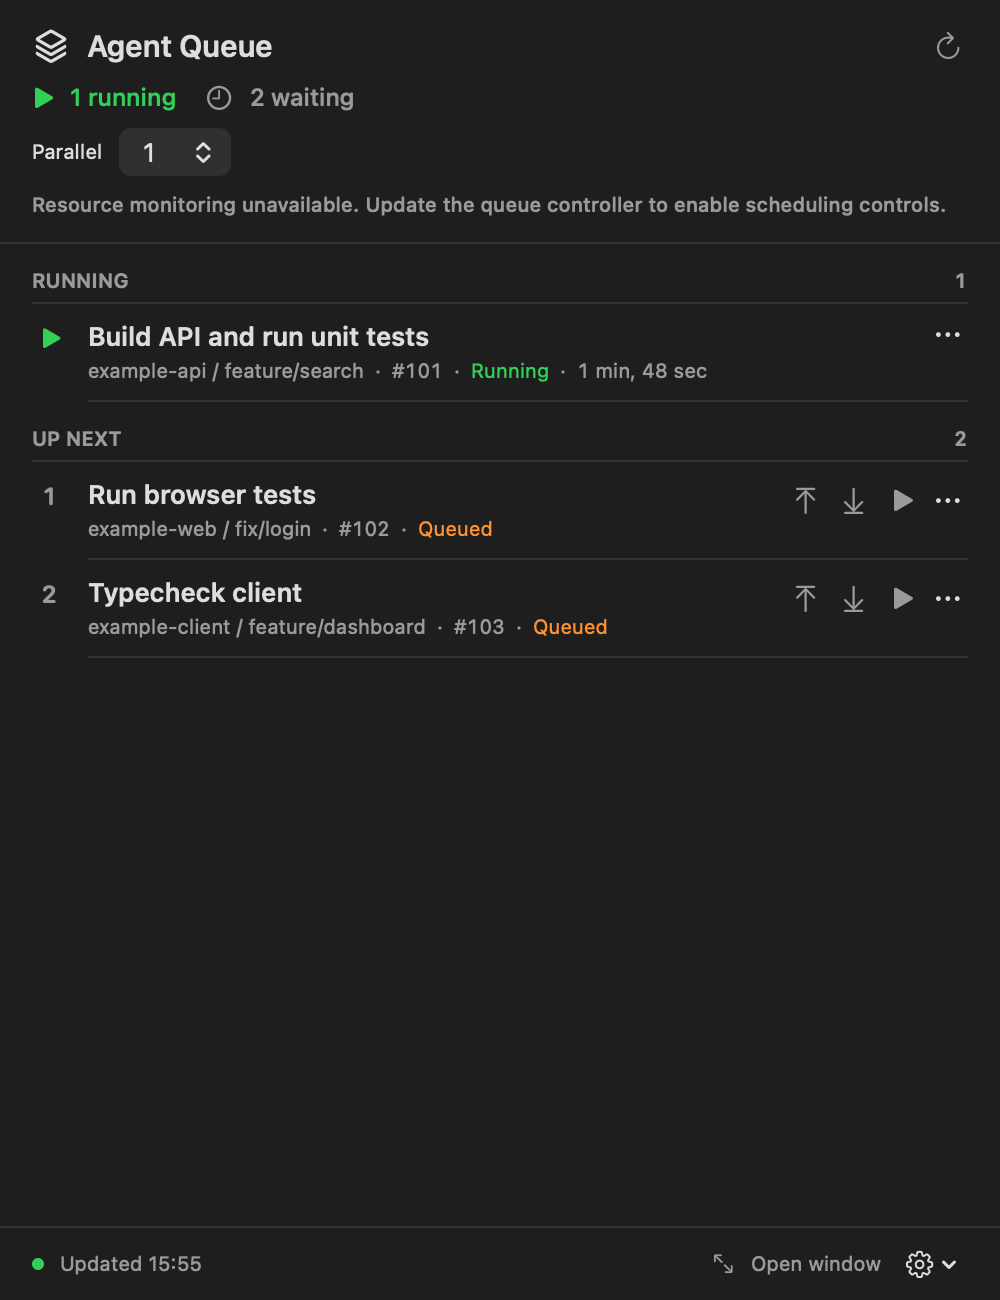
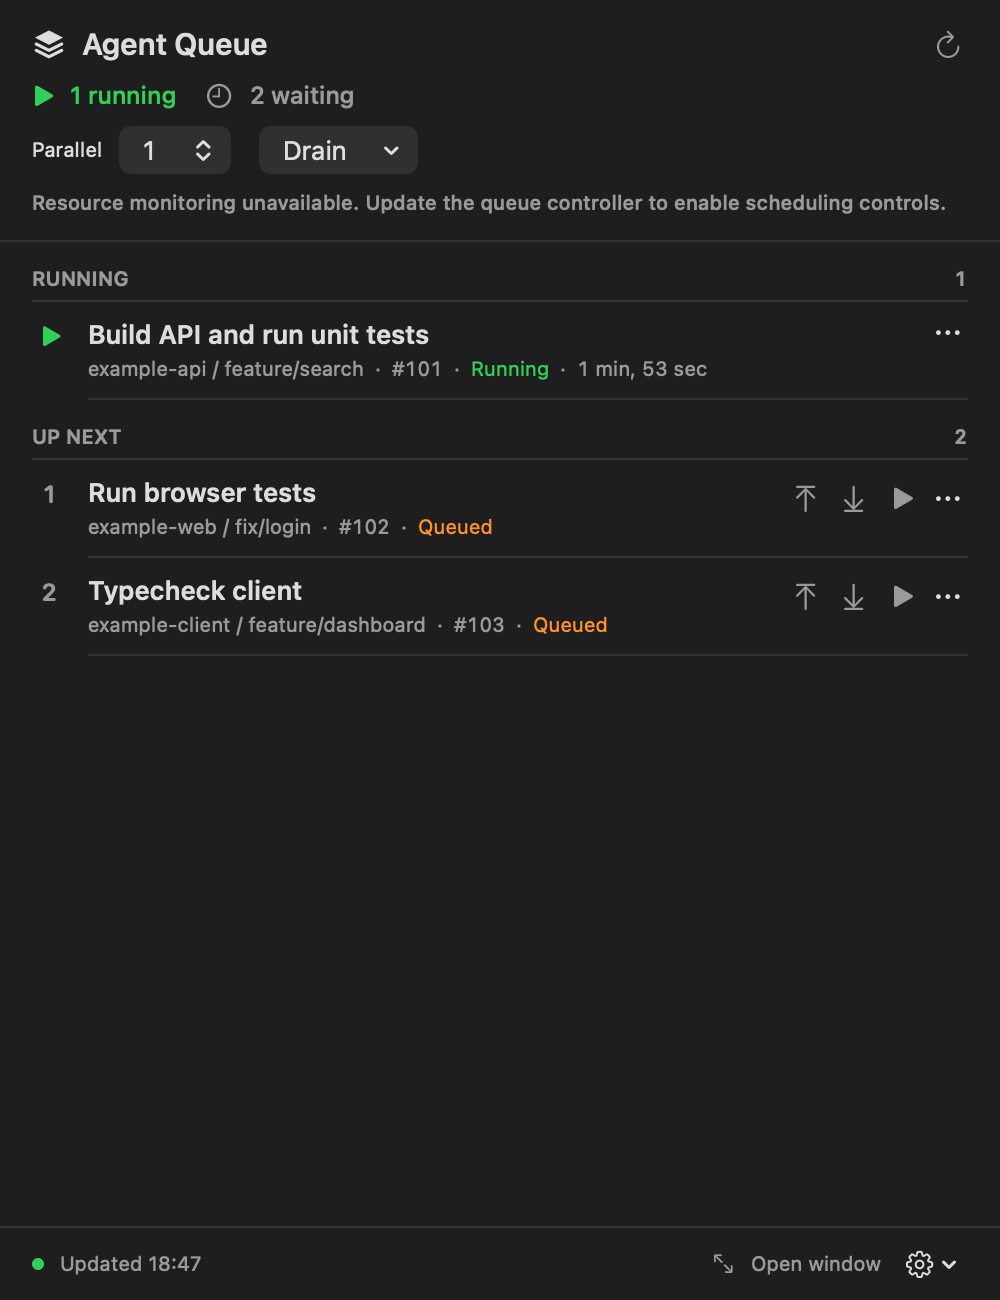
feat(native): drain the queue from the app for a chosen time (#109)
* feat(native): drain the queue from the app for a chosen time

A Drain menu beside the parallel limit closes intake for 30 minutes to
4 hours. The daemon's own expiry reopens intake, so it ends on time even
when the app is not running. A banner shows when intake reopens and
offers Stop draining, which leaves a paused queue paused, or Remove drain
when the drain file cannot be trusted.

The update drain reuses the shared date parser instead of its own copy.

* fix(native): say what a drain does for every caller choice

"New jobs wait" holds only for the default on-drain choice, and queued
jobs do not continue while the queue is paused. The banner and notice
now say new jobs are not accepted and queued and running jobs are
unaffected. Removing an untrusted drain file says "Drain removed", the
Drain menu says when a choice restarts an active drain, the banner date
reads as an if/else chain, and an unreadable end time is shown as
reported.

---------

diff --git a/native/AgentQueue.swift b/native/AgentQueue.swift
@@ -520,6 +520,7 @@ extension QueueClient.Command {
     static let status = Self(arguments: ["status", "--json"], timeout: 8, cancellation: .discard)
     static func jobAction(_ action: String, id: Int) -> Self { .init(arguments: [action, String(id)]) }
     static let resume = Self(arguments: ["resume"])
+    static func drain(minutes: Int) -> Self { .init(arguments: ["drain", "--for", "\(minutes)m"]) }
     static func limit(_ limit: Int) -> Self { .init(arguments: ["limit", String(limit)]) }
     static func scheduling(_ mode: SchedulingMode) -> Self { .init(arguments: ["scheduling", mode.rawValue]) }
     static let version = Self(arguments: ["version", "--json"])
@@ -1452,6 +1453,18 @@ struct QueuePanel: View {
                     .fixedSize()
                     .help("Adaptive fits jobs within your parallel limit. Learn only records predictions. Running jobs are never stopped automatically.")
                 }
+                Menu("Drain") {
+                    // Durations count from now, so a new choice replaces the current end time.
+                    Section(store.snapshot?.queue.drainUntil == nil ? "Close intake for" : "Restart the drain for") {
+                        ForEach(QueueAction.drainMinutes, id: \.self) { minutes in
+                            Button(QueueAction.drainLabel(minutes)) { store.dispatch(.drain(minutes: minutes)) }
+                        }
+                    }
+                }
+                .fixedSize()
+                .help("Hold new jobs back for a while, for example before an update or a restart. Queued and running jobs continue, and intake reopens on its own when the time is up.")
+                .accessibilityLabel("Drain queue")
+                .accessibilityIdentifier("queue.drain")
                 Spacer(minLength: 0)
             }
             .pickerStyle(.menu).font(.caption)
@@ -1517,6 +1530,22 @@ struct QueuePanel: View {
                         .accessibilityLabel("Resume queue")
                         .accessibilityIdentifier("queue.resume")
                         .help("Resume automatic starts for waiting jobs.")
+                    }.font(.callout).padding(.top, 10)
+                }
+                if let queue = store.snapshot?.queue, queue.drainUntil != nil || queue.drainError != nil {
+                    HStack(spacing: 12) {
+                        Label(drainBanner(queue), systemImage: queue.drainError == nil ? "hourglass" : "exclamationmark.triangle")
+                            .foregroundStyle(.orange)
+                        Spacer(minLength: 0)
+                        Button(queue.drainError == nil ? "Stop draining" : "Remove drain", systemImage: "xmark.circle") {
+                            store.dispatch(.undrain)
+                        }
+                        .buttonStyle(.bordered)
+                        .fixedSize()
+                        .disabled(store.actionsDisabled)
+                        .accessibilityLabel(queue.drainError == nil ? "Stop draining" : "Remove drain file")
+                        .accessibilityIdentifier("queue.undrain")
+                        .help("Accept new jobs again now. A paused queue stays paused.")
                     }.font(.callout).padding(.top, 10)
                 }
                 if store.snapshot?.queue.legacyOccupied == true {
@@ -1854,6 +1883,23 @@ struct JobConfirmationPanel: View {
             }.padding(18)
         }.frame(maxWidth: .infinity, maxHeight: .infinity)
     }
+}
+
+/// The drain banner text: when intake reopens, or why the drain cannot be trusted.
+func drainBanner(_ queue: QueueSummary, now: Date = Date()) -> String {
+    if let problem = queue.drainError { return problem }
+    guard let text = queue.drainUntil, let until = parseDate(text) else { return "Draining until \(queue.drainUntil ?? "an unknown time"). \(QueueAction.drainEffect)" }
+    let calendar = Calendar.current
+    let time = until.formatted(date: .omitted, time: .shortened)
+    let end: String
+    if calendar.isDate(until, inSameDayAs: now) {
+        end = time
+    } else if let tomorrow = calendar.date(byAdding: .day, value: 1, to: now), calendar.isDate(until, inSameDayAs: tomorrow) {
+        end = "tomorrow \(time)"
+    } else {
+        end = until.formatted(date: .abbreviated, time: .shortened)
+    }
+    return "Draining until \(end). \(QueueAction.drainEffect)"
 }
 
 func parseDate(_ value: String) -> Date? {

diff --git a/native/tests/BehaviorTests.swift b/native/tests/BehaviorTests.swift
@@ -167,12 +167,44 @@ struct BehaviorTests {
         try check(QueueAction.scheduling(.adaptive).isAllowed(in: activeQueue), "Scheduling accepts a different mode")
         try check(!QueueAction.scheduling(.fixed).isAllowed(in: activeQueue), "Scheduling refuses the current mode")
         try check(!QueueAction.scheduling(.adaptive).isAllowed(in: pausedQueue), "Scheduling needs a reported scheduler")
+        func drained(until: String? = nil, error: String? = nil) -> QueueSnapshot {
+            QueueSnapshot(updatedAt: original.updatedAt, queue: QueueSummary(status: "running", limit: 2, running: 0, waiting: 1,
+                legacyOccupied: false, drainUntil: until, drainError: error), jobs: [movable])
+        }
+        let drainingQueue = drained(until: "2099-01-01T00:00:00Z")
+        let untrustedQueue = drained(error: "Invalid drain file")
+        for minutes in QueueAction.drainMinutes {
+            try check(QueueAction.drain(minutes: minutes).isAllowed(in: activeQueue), "Drain for \(minutes) minutes is offered")
+        }
+        try check(QueueAction.drain(minutes: 60).isAllowed(in: drainingQueue), "A new drain replaces the end time of an active one")
+        try check(!QueueAction.drain(minutes: 45).isAllowed(in: activeQueue), "Drain refuses a duration outside its list")
+        try check(!QueueAction.drain(minutes: 60).isAllowed(in: nil), "Drain is refused without a snapshot")
+        try check(QueueAction.undrain.isAllowed(in: drainingQueue), "Stop draining is allowed while draining")
+        try check(QueueAction.undrain.isAllowed(in: untrustedQueue), "Undrain removes a drain file the daemon cannot trust")
+        try check(!QueueAction.undrain.isAllowed(in: activeQueue) && !QueueAction.undrain.isAllowed(in: nil), "Undrain is refused without a drain")
+        try check(QueueAction.drainMinutes.map(QueueAction.drainLabel) == ["30 minutes", "1 hour", "2 hours", "4 hours"], "Drain durations read naturally")
+        // One in the morning, so an hour later is the same day and 23 hours later is the next.
+        let morning = Calendar.current.startOfDay(for: Date(timeIntervalSince1970: 1_800_000_000)).addingTimeInterval(3600)
+        for hours in [1.0, 23.0, 72.0] {
+            let until = morning.addingTimeInterval(hours * 3600)
+            let time = until.formatted(date: .omitted, time: .shortened)
+            let end = [1.0: time, 23.0: "tomorrow \(time)"][hours] ?? until.formatted(date: .abbreviated, time: .shortened)
+            try check(drainBanner(drained(until: ISO8601DateFormatter().string(from: until)).queue, now: morning)
+                      == "Draining until \(end). New jobs are not accepted; queued and running jobs are unaffected.",
+                      "The drain banner shows when intake reopens, \(hours) hours ahead")
+        }
+        try check(drainBanner(untrustedQueue.queue) == "Invalid drain file", "An untrusted drain file shows its problem")
+        try check(drainBanner(drained(until: "soon").queue) == "Draining until soon. New jobs are not accepted; queued and running jobs are unaffected.",
+                  "An unreadable end time is shown as reported")
         let sent: [(QueueAction, [String], String, Bool)] = [
             (.next(movable), ["next", "7"], "Job #7 will run next.", false),
             (.last(movable), ["last", "7"], "Job #7 moved to the end.", false),
             (.start(movable), ["start", "7"], "Job #7 requested to start outside the parallel limit.", true),
             (.cancel(movable), ["cancel", "7"], "Cancellation requested for job #7.", true),
             (.resume, ["resume"], "Queue resumed.", false),
+            (.drain(minutes: 30), ["drain", "--for", "30m"], "Draining for 30 minutes. New jobs are not accepted; queued and running jobs are unaffected.", false),
+            (.drain(minutes: 120), ["drain", "--for", "120m"], "Draining for 2 hours. New jobs are not accepted; queued and running jobs are unaffected.", false),
+            (.undrain, ["undrain", "--keep-paused"], "Drain removed. New jobs are accepted.", false),
             (.limit(3), ["limit", "3"], "Parallel job limit changed to 3.", false),
             (.scheduling(.shadow), ["scheduling", "shadow"], "Scheduling changed to Learn only.", false)]
         for (action, arguments, notice, confirms) in sent {

diff --git a/native/QueueActions.swift b/native/QueueActions.swift
@@ -5,6 +5,9 @@ import Foundation
 enum QueueAction: Equatable {
     case next(QueueJob), last(QueueJob), start(QueueJob), cancel(QueueJob)
     case resume
+    /// Closes intake for a while; the daemon reopens it on its own when the time is up.
+    case drain(minutes: Int)
+    case undrain
     case limit(Int)
     case scheduling(SchedulingMode)
 
@@ -12,7 +15,7 @@ enum QueueAction: Equatable {
     var job: QueueJob? {
         switch self {
         case .next(let job), .last(let job), .start(let job), .cancel(let job): job
-        case .resume, .limit, .scheduling: nil
+        case .resume, .drain, .undrain, .limit, .scheduling: nil
         }
     }
 
@@ -24,6 +27,8 @@ enum QueueAction: Equatable {
         case .start: "start"
         case .cancel: "cancel"
         case .resume: "resume"
+        case .drain: "drain"
+        case .undrain: "undrain"
         case .limit: "limit"
         case .scheduling: "scheduling"
         }
@@ -34,7 +39,7 @@ enum QueueAction: Equatable {
         switch self {
         case .start: .start
         case .cancel: .cancel
-        case .next, .last, .resume, .limit, .scheduling: nil
+        case .next, .last, .resume, .drain, .undrain, .limit, .scheduling: nil
         }
     }
 
@@ -46,16 +51,29 @@ enum QueueAction: Equatable {
         case .start(let job): job.isWaiting && (job.canStart ?? job.canReorder)
         case .cancel(let job): job.canCancel
         case .resume: snapshot?.queue.status.lowercased() == "paused"
+        // A new drain replaces the end time of one already active.
+        case .drain(let minutes): snapshot != nil && Self.drainMinutes.contains(minutes)
+        // Undrain also removes a drain file the daemon cannot trust.
+        case .undrain: snapshot.map { $0.queue.drainUntil != nil || $0.queue.drainError != nil } ?? false
         case .limit(let limit): Self.limits.contains(limit) && limit != snapshot?.queue.limit
         case .scheduling(let mode): snapshot?.scheduler.map { $0.mode != mode } ?? false
         }
     }
 
     static let limits = 1...8
+    static let drainMinutes = [30, 60, 120, 240]
+    static let drainEffect = "New jobs are not accepted; queued and running jobs are unaffected."
+
+    static func drainLabel(_ minutes: Int) -> String {
+        minutes < 60 ? "\(minutes) minutes" : minutes == 60 ? "1 hour" : "\(minutes / 60) hours"
+    }
 
     var command: QueueClient.Command {
         switch self {
         case .resume: .resume
+        case .drain(let minutes): .drain(minutes: minutes)
+        // Ending a drain leaves a pause alone; Resume is its own control.
+        case .undrain: .undrainKeepPaused
         case .limit(let limit): .limit(limit)
         case .scheduling(let mode): .scheduling(mode)
         case .next(let job), .last(let job), .start(let job), .cancel(let job): .jobAction(name, id: job.id)
@@ -69,6 +87,8 @@ enum QueueAction: Equatable {
         case .start(let job): "Job #\(job.id) requested to start outside the parallel limit."
         case .cancel(let job): "Cancellation requested for job #\(job.id)."
         case .resume: "Queue resumed."
+        case .drain(let minutes): "Draining for \(Self.drainLabel(minutes)). \(Self.drainEffect)"
+        case .undrain: "Drain removed. New jobs are accepted."
         case .limit(let limit): "Parallel job limit changed to \(limit)."
         case .scheduling(let mode): "Scheduling changed to \(mode.label)."
         }

diff --git a/native/AgentUpdates.swift b/native/AgentUpdates.swift
@@ -148,7 +148,7 @@ struct QueueUpdateDrain: Sendable {
 
     /// The recorded drain while it can still be live. A missing, unreadable, foreign or lapsed marker is none.
     var record: QueueUpdateDrainRecord? {
-        guard let record = Self.read(marker), let expiry = Self.date(record.drainUntil), expiry > now() else { return nil }
+        guard let record = Self.read(marker), let expiry = parseDate(record.drainUntil), expiry > now() else { return nil }
         return record
     }
 
@@ -190,13 +190,6 @@ struct QueueUpdateDrain: Sendable {
     private func probe() async throws -> (drainUntil: String?, status: String) {
         let queue = try JSONDecoder().decode(Probe.self, from: try await command(.status)).queue
         return (queue.drainUntil, queue.status)
-    }
-
-    private static func date(_ text: String) -> Date? {
-        let plain = ISO8601DateFormatter()
-        let fractional = ISO8601DateFormatter()
-        fractional.formatOptions = [.withInternetDateTime, .withFractionalSeconds]
-        return plain.date(from: text) ?? fractional.date(from: text)
     }
 
     /// The marker is the account's own regular file, readable by nobody else, inside the account's own directory.

diff --git a/README.md b/README.md
@@ -153,6 +153,8 @@ agent-heavy drain [--for DURATION] [--wait] [--cancel-queued] [--cancel-running]
 agent-heavy undrain [--force | --keep-paused]
 ```
 
+In the app, choose **Drain** beside the parallel limit and pick 30 minutes to 4 hours. A banner shows when intake reopens on its own, and **Stop draining** reopens it early. Like `undrain --keep-paused`, it leaves a paused queue paused; use **Resume** for that. When the drain file cannot be trusted, the same banner offers **Remove drain**.
+
 - `drain` writes a private `drain.json` with an expiry. `--for` sets it (at least 1s, at most 24h) and replaces any existing expiry; without `--for` a new drain lasts 4h, while an already active drain keeps its expiry, so `drain --wait` or `drain --cancel-queued` can never shorten it. It needs no daemon unless a cancel flag or `--wait` is used, and it prints the expiry. If the daemon is down or lost for one of those flags, the error says intake stays closed until the expiry and how to reopen it. A queued or running job continues exactly as before, at the normal limit. A pause stays independent of a drain.
 - `--cancel-queued` cancels, in one pass inside the daemon, every job and lease that has not started; their callers exit 130. A job that has started is never touched by it, even if it started a moment before. With both cancel flags the queued pass runs first, so no queued job starts in the place of one you cancel. `--cancel-running` cancels running jobs and releases held leases, and alone it leaves queued jobs in place, which then start as slots free up; add `--cancel-queued` to cancel those too. Neither is ever implied.
 - `--wait` returns 0 once every job is done and its cleanup has finished. It prints progress about every 15 s, names a held lease that blocks it (release it or use `--cancel-running`) and says when the queue is paused, because queued jobs then do not start until `agent-heavy resume` or `undrain`. If the drain expires first it exits 1 and says intake has reopened. On a signal it exits 128 plus the signal and leaves the drain in place.
